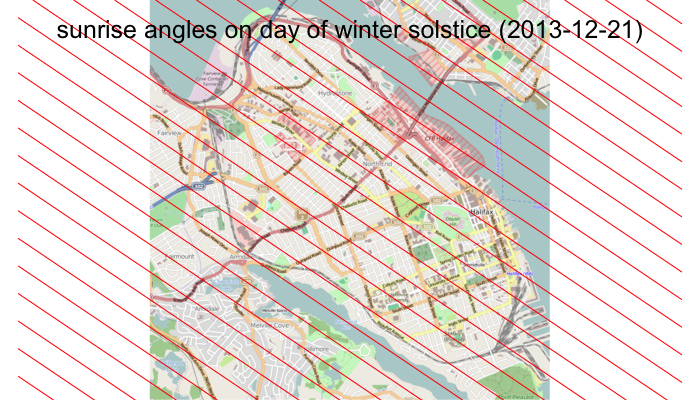
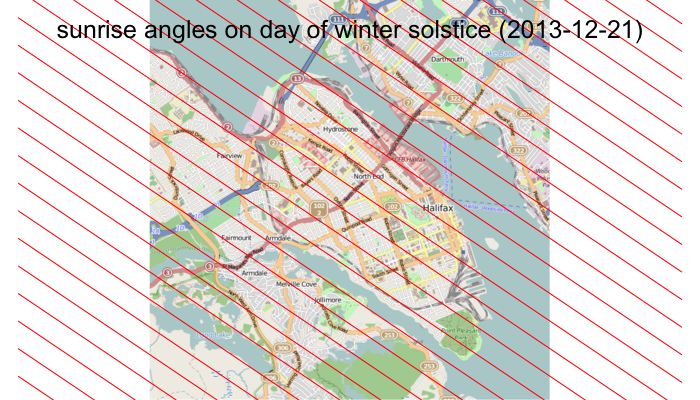
solstice

diff --git a/_posts/2013-12-21-solstice.md b/_posts/2013-12-21-solstice.md
@@ -24,7 +24,7 @@ First, set up the problem; these may be the only lines that need editing for oth
 {% highlight r linenos=table %}
 t <- as.POSIXct("2013-12-21 17:11:00", tz="UTC") # winter solstice
 xy <- list(x=-63.60, y=44.65)          # centre of map (Halifax)
-D <- 6                                 # map span in km
+D <- 9                                 # map span in km
 {% endhighlight %}
 
 Next, use ``sunAngle()`` from the ``oce`` package to find the time of the sunrise and the azimuth at that moment.  Here, ``uniroot()`` is used to find the time when the altitude is zero (the sun is on the horizon), and we start searching a quarter-day before the time of the actual solstice.
